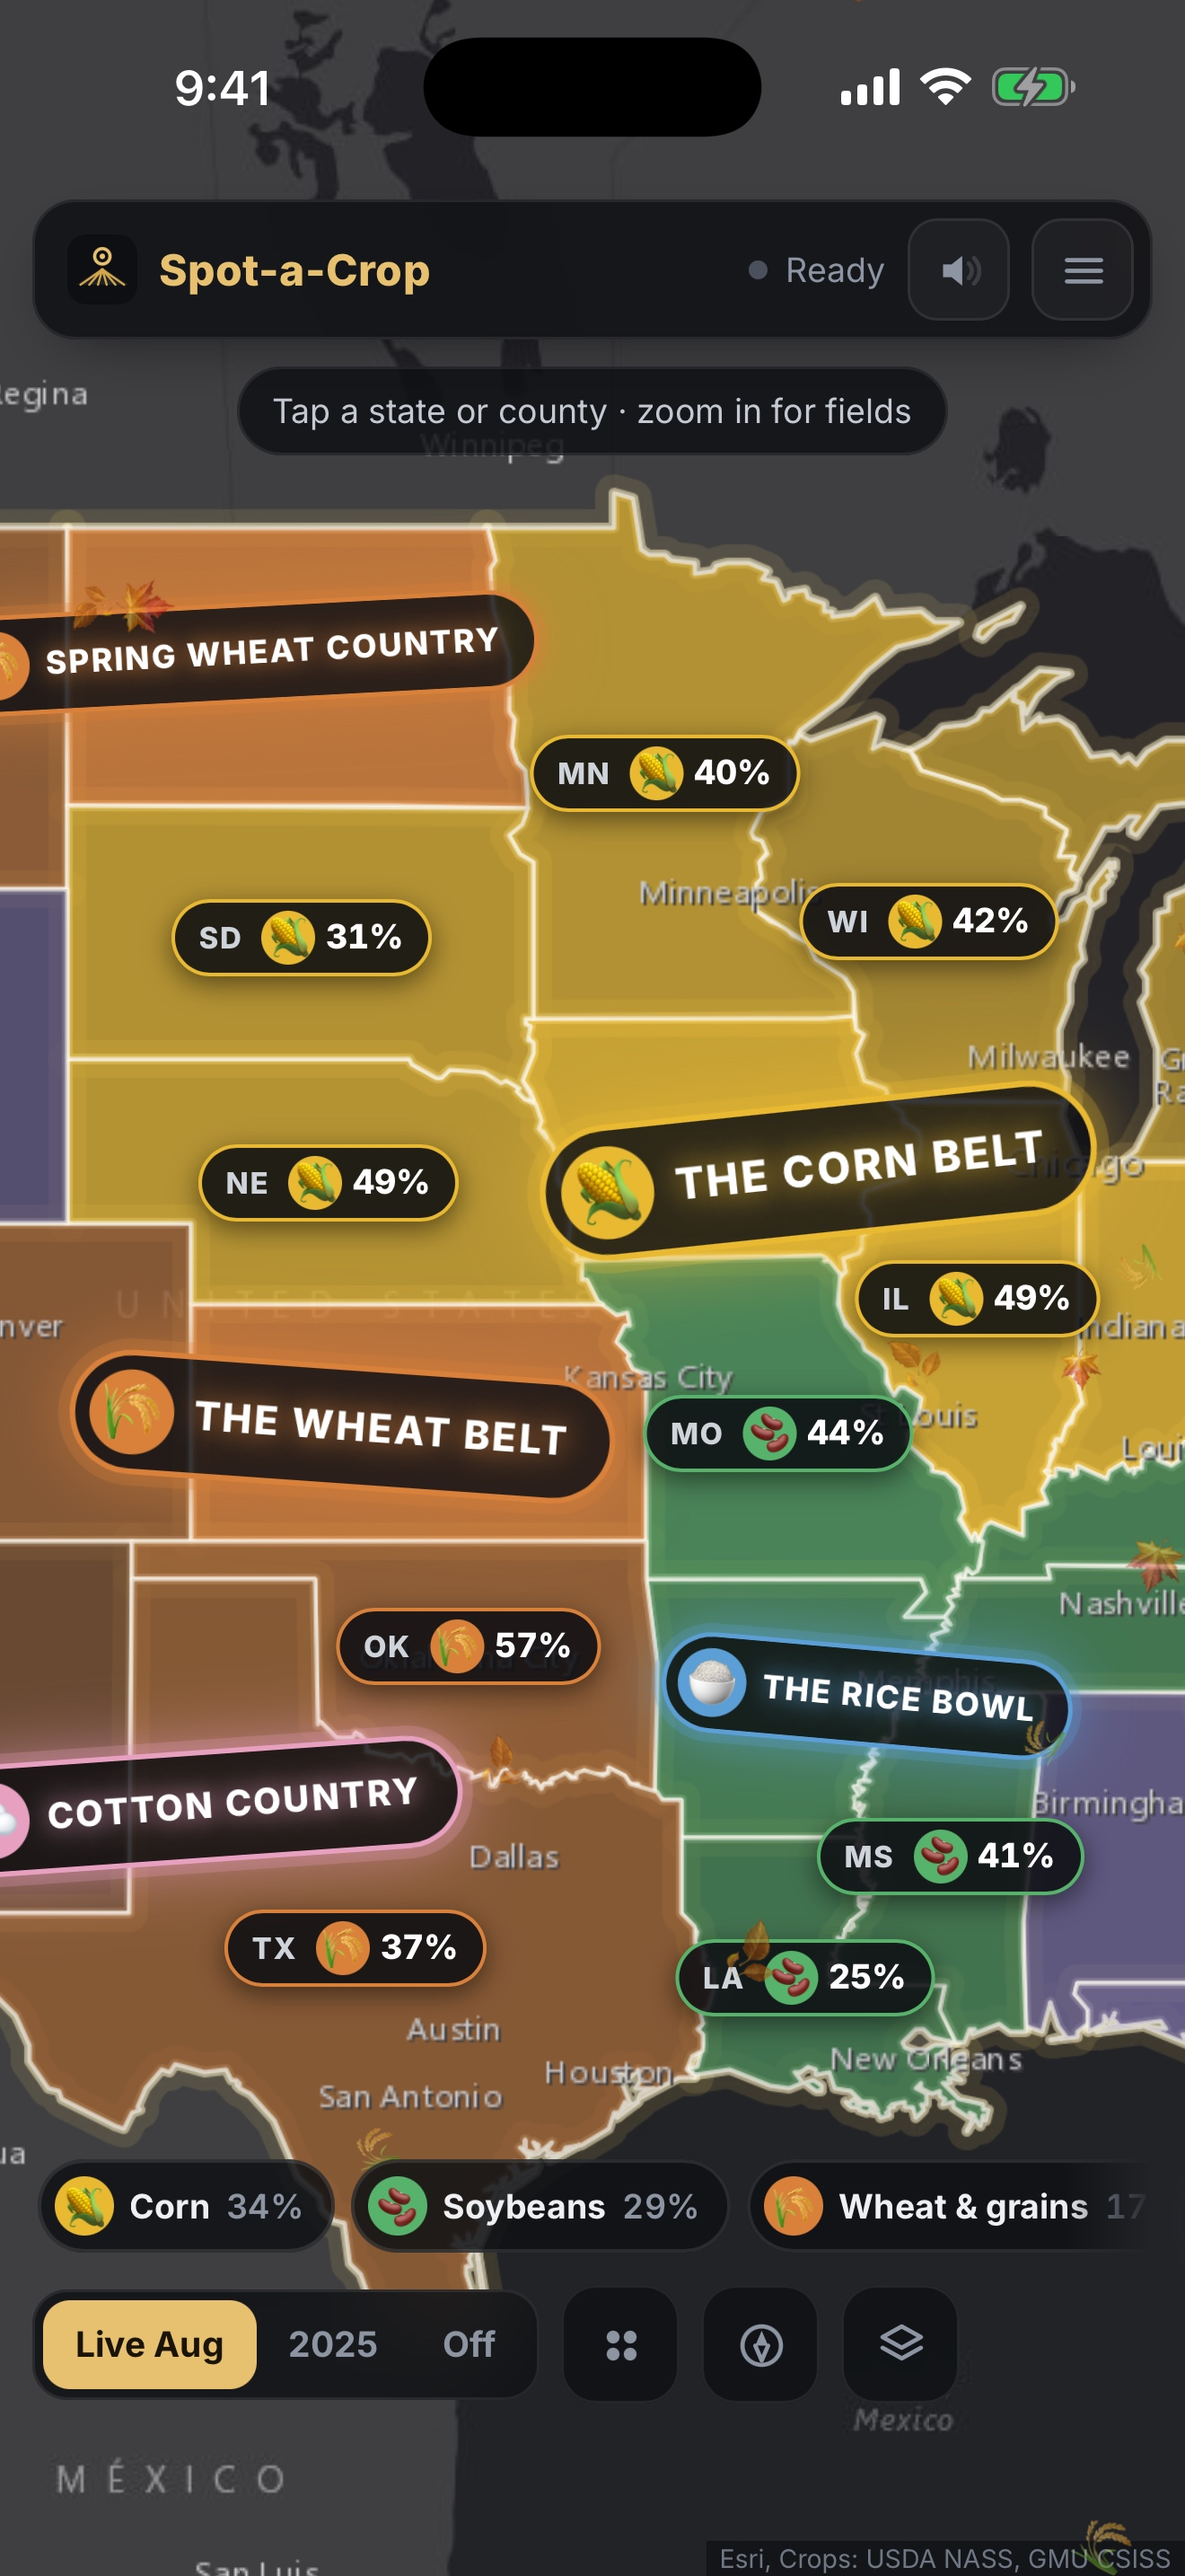
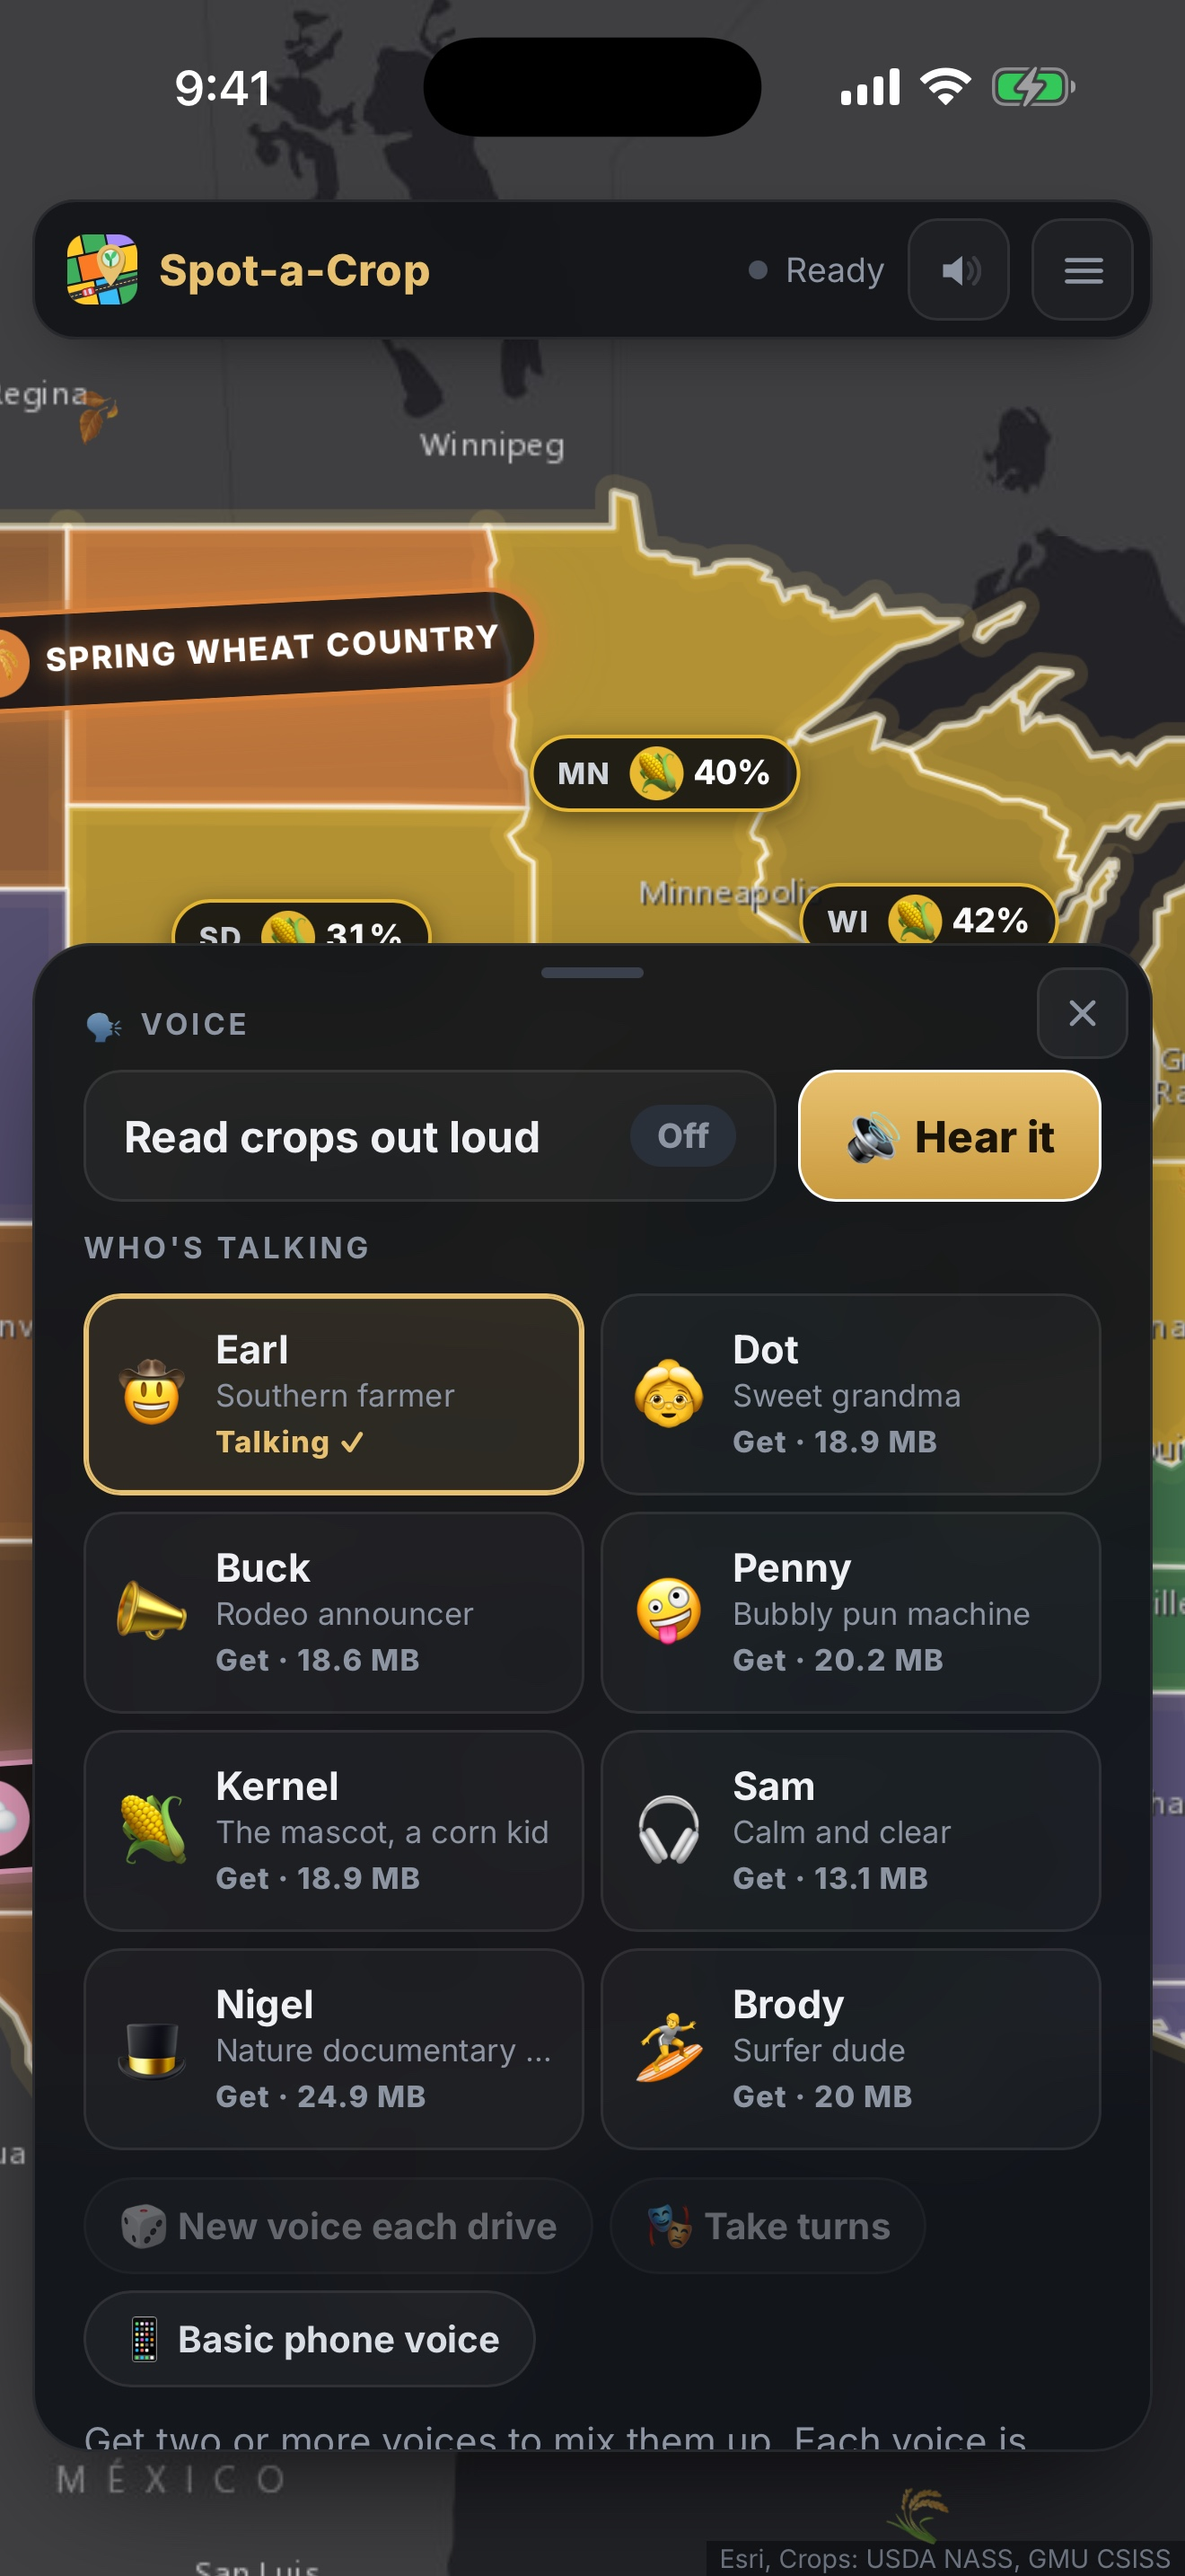
Labels stay clear of the driving buttons; new App Store screenshots and listing (voice cast); build 5

diff --git a/app.js b/app.js
@@ -113,7 +113,8 @@ map.attributionControl.addAttribution('Crops: USDA NASS, GMU CSISS');
 // Keep map labels out from under the top bar, bottom panels and the map buttons.
 function mapInsets() {
   const top = document.querySelector('.hud').getBoundingClientRect().bottom;
-  const panels = [els.sheet, els.welcome, els.legend].filter((e) => !e.hidden && e.offsetParent)
+  // Full-width things along the bottom that labels must stay clear of (the driving buttons included).
+  const panels = [els.sheet, els.welcome, els.legend, document.getElementById('driveBar')].filter((e) => e && !e.hidden && e.offsetParent)
     .map((e) => e.getBoundingClientRect()).filter((r) => r.width > window.innerWidth * 0.9);
   return { top, bottom: Math.max(76, ...panels.map((r) => window.innerHeight - r.top)) };
 }

diff --git a/store/listing.md b/store/listing.md
@@ -6,22 +6,28 @@ Paste these into App Store Connect. Character limits are Apple's.
 Spot-a-Crop
 
 ## Subtitle (30 max)
-What's that crop by the road?
+Crops called out as you drive
 
 ## Promotional text (170 max, can change any time without review)
 Harvest season is here! Watch fields across the Corn Belt change color, and see how much of your state's corn and soybeans are already in.
 
 ## Description
-Ever drive past miles of fields and wonder what's growing? Spot-a-Crop tells you.
+Ever drive past miles of fields and wonder what's growing? Spot-a-Crop tells you, out loud.
 
-Tap Start driving and the top bar names the crops on your left and right as you go: corn, soybeans, wheat, cotton, rice, orchards, vineyards and dozens more, anywhere in the lower 48. Turn on voice and it reads them out loud, even with your screen locked.
+Tap Start driving and the app names the crops on your left and right as you go: corn, soybeans, wheat, cotton, rice, orchards, vineyards and dozens more, anywhere in the lower 48.
+
+PICK A CO-PILOT
+Choose who calls out the crops. Earl the Southern farmer. Dot the sweet grandma. Buck the rodeo announcer. Penny the pun machine. Nigel the nature-documentary narrator. Detective Rye, Coach Hank, Brody the surfer, Delphine the drama queen, Kernel the corn kid, or calm, clear Sam. Each has over a thousand lines, so they rarely repeat. Or let them take turns.
+• Works with your screen locked and your music playing
+• Downloads once, then works with no signal
+• Welcomes you to each state, cracks jokes on long stretches, and recaps your drive
 
 WHERE THE DATA COMES FROM
-Spot-a-Crop uses USDA satellite crop maps. Where this season's map is available you'll see a gold LIVE tag. Everywhere else it uses the latest yearly USDA map plus each field's crop history.
+USDA satellite crop maps. Where this season's map is available you'll see a gold LIVE tag. Everywhere else it uses the latest yearly USDA map plus each field's crop history, with official USDA field outlines.
 
 TAP ANY FIELD
 • What's growing and how many acres
-• What was planted there the past five years
+• What was planted there in past years
 • This week's USDA harvest progress for that crop in your state
 • Fun facts about the crop
 
@@ -30,20 +36,16 @@ ROAD-TRIP FUN
 • Road-trip bingo: a new card every day
 • Guess the crop from a bird's-eye photo
 • Badges, state stamps and a leaderboard
-• Meet Kernel, your corn-cob co-pilot
 
 PLAN A DRIVE
 See what you'll pass on the way, and save the route for stretches with no signal.
 
-SHARE YOUR FINDS
-Turn any field into a postcard for friends.
+No account and no ads. Your trips, cards and badges stay on your phone. Character voices are AI voices.
 
-No account and no ads. Your trips, cards and badges stay on your phone.
-
-Drivers: please use voice and keep your eyes on the road. Passengers can read the screen.
+Drivers: use voice and keep your eyes on the road. Passengers can read the screen.
 
 ## Keywords (100 max, commas, no spaces)
-crop,farm,field,corn,soybean,wheat,road trip,driving,agriculture,usda,identify,harvest,bingo,map
+crop,farm,field,corn,soybean,wheat,road trip,driving,agriculture,usda,harvest,bingo,audio,voices
 
 ## URLs
 - Support URL: https://zachmartin88.github.io/spotacrop/support.html
@@ -61,11 +63,11 @@ crop,farm,field,corn,soybean,wheat,road trip,driving,agriculture,usda,identify,h
 Free
 
 ## Screenshots (6.9" iPhone, 1320 × 2868, in this order)
-1. screenshots-6.9/4.jpg: driving, crops named left and right
-2. screenshots-6.9/3.jpg: tapped field with crop history and harvest progress
-3. screenshots-6.9/2.jpg: US map with the Corn Belt and Wheat Belt
-4. screenshots-6.9/5.jpg: road-trip bingo
-5. screenshots-6.9/1.jpg: Kernel's welcome
+1. screenshots-6.9/1.jpg: driving mode, corn left and right, Earl talking
+2. screenshots-6.9/2.jpg: the voice cast
+3. screenshots-6.9/3.jpg: a tapped field with crop history and harvest progress
+4. screenshots-6.9/4.jpg: US map with the Corn Belt and Wheat Belt
+5. screenshots-6.9/5.jpg: road-trip bingo
 
 ## App Privacy answers ("nutrition label")
 Data collected:
@@ -79,4 +81,5 @@ Tracking: No.
 Spot-a-Crop names the crops in fields beside the road using USDA satellite crop maps.
 No sign-in is needed.
 To test without driving: tap "Explore map" and tap any field. In Iowa, Illinois or Nebraska most fields are corn or soybeans.
-Background location and audio are used only while "Start driving" is on, so voice can keep naming crops with the screen locked. The app stops using location when the drive ends.
+Background location and audio are used only while "Start driving" is on, so the chosen character voice can keep naming crops with the screen locked. Location stops when you tap End drive, or automatically after about 10 minutes parked.
+Voices: tap the speaker, pick a character (downloads about 20 MB from our site), then Start driving. Voices are AI-generated with open-source models and are credited in the app (☰ › About the data).
